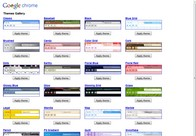
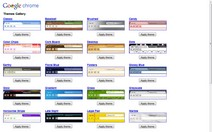
NNTP: Updating the thumbnail size to match the size we use on the new tab page.
This should reduce the amount of work needed since the images do not
need to be resized.

BUG=17455

TEST=No visible changes

Review URL: http://codereview.chromium.org/194028

git-svn-id: svn://svn.chromium.org/chrome/trunk/src@25520 0039d316-1c4b-4281-b951-d872f2087c98

diff --git a/chrome/renderer/render_view.cc b/chrome/renderer/render_view.cc
@@ -145,8 +145,8 @@ using WebKit::WebWorkerClient;
 static const size_t kMaxIndexChars = 65535;
 
 // Size of the thumbnails that we'll generate
-static const int kThumbnailWidth = 196;
-static const int kThumbnailHeight = 136;
+static const int kThumbnailWidth = 212;
+static const int kThumbnailHeight = 132;
 
 // Delay in milliseconds that we'll wait before capturing the page contents
 // and thumbnail.

diff --git a/chrome/browser/tab_contents/thumbnail_generator.cc b/chrome/browser/tab_contents/thumbnail_generator.cc
@@ -46,8 +46,8 @@
 
 namespace {
 
-static const int kThumbnailWidth = 294;
-static const int kThumbnailHeight = 204;
+static const int kThumbnailWidth = 212;
+static const int kThumbnailHeight = 132;
 
 // Indicates the time that the RWH must be visible for us to update the
 // thumbnail on it. If the user holds down control enter, there will be a lot
